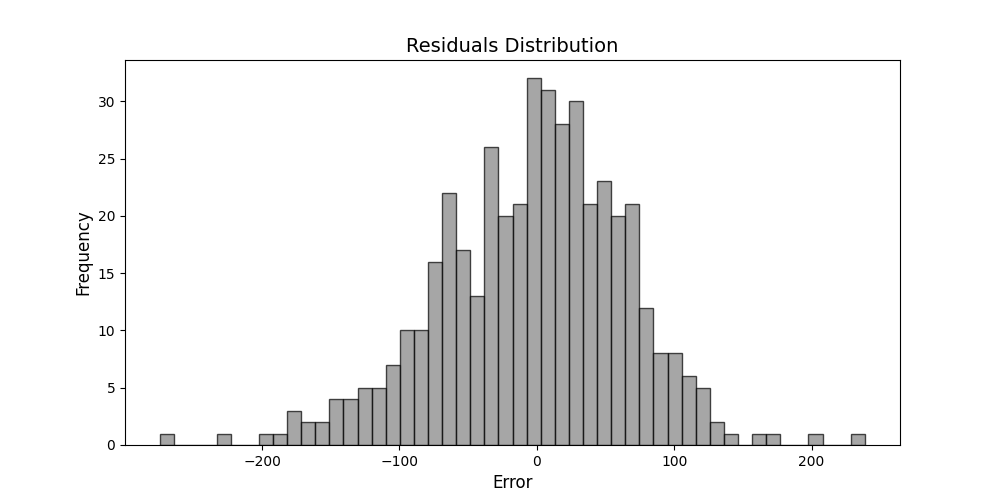
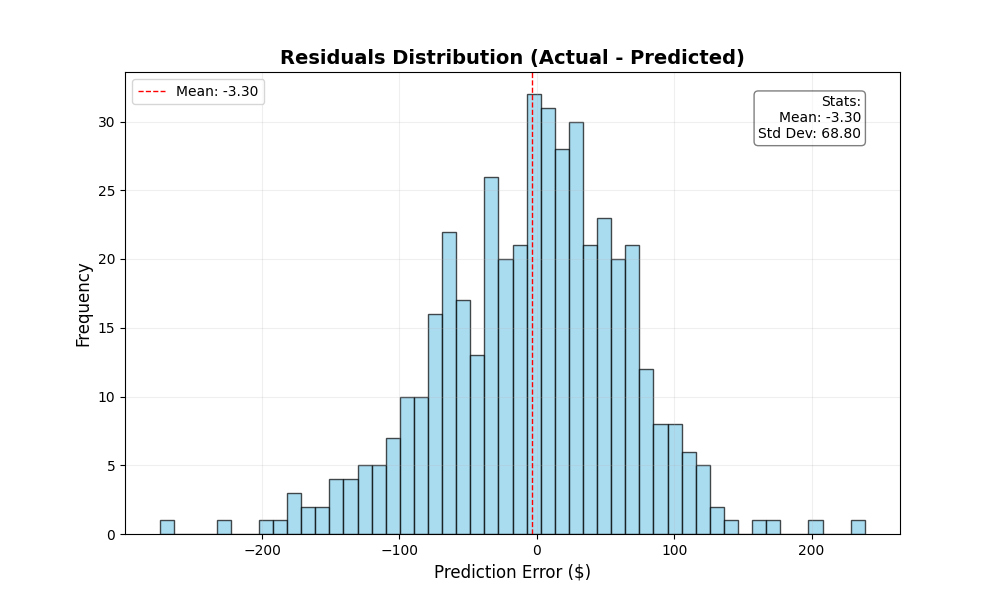
Regenerate enhanced residual plot with statistics

diff --git a/src/visualization.py b/src/visualization.py
@@ -1,5 +1,6 @@
 import matplotlib.pyplot as plt
 import os
+import numpy as np
 
 def plot_predictions(dates, y_true, y_pred, symbol, save_path=None, show=False):
     """
